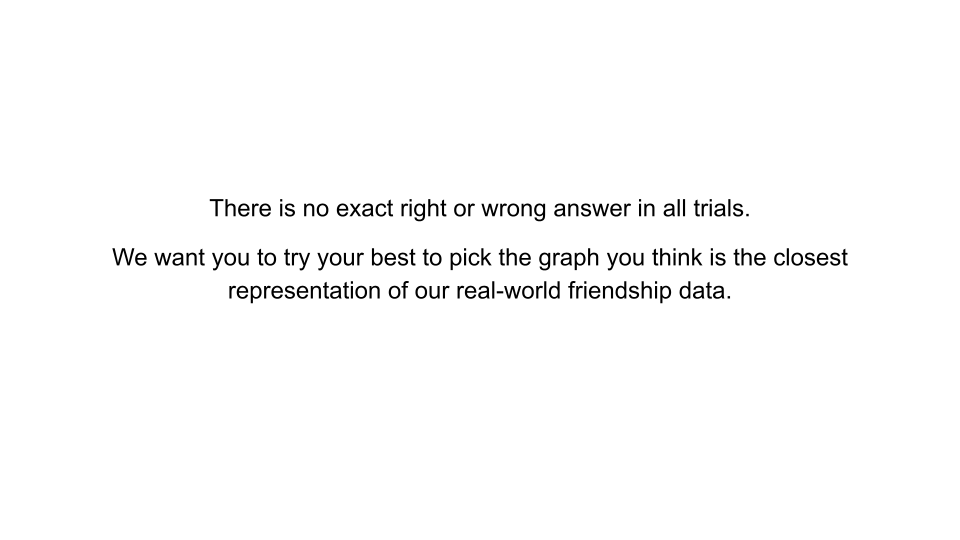
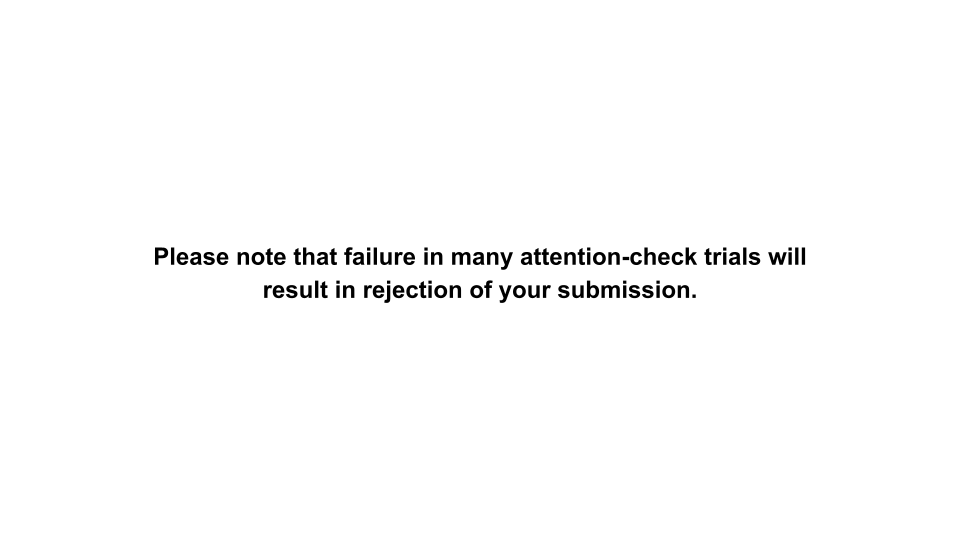
update debug

Changed region(s): [[0.125, 0.4444, 0.875, 0.563], [0.2188, 0.3556, 0.7812, 0.4148]]

diff --git a/task.js b/task.js
@@ -329,7 +329,7 @@ let debugmode=true
 let totalGraphTrials, totalProbeTrials;
 if (debugmode){
     totalGraphTrials = 20; 
-    totalProbeTrials = 5;
+    totalProbeTrials = 20;
 }else{
     totalGraphTrials = 190;
     totalProbeTrials = 20;
@@ -469,7 +469,7 @@ function showBreakScreen() {
             countdownDisplay.textContent = `: ${remaining} seconds`;
 
             // For initial 60s, enable early resume after 30s have passed
-            if (duration === 60 && remaining === 30) {
+            if (duration === 60 && remaining === 50) {
                 allowEarlyResume = true;
                 earlyResumeMsg.style.display = "block";
                 earlyResumeMsg.textContent = "You may press SPACE to resume early.";
